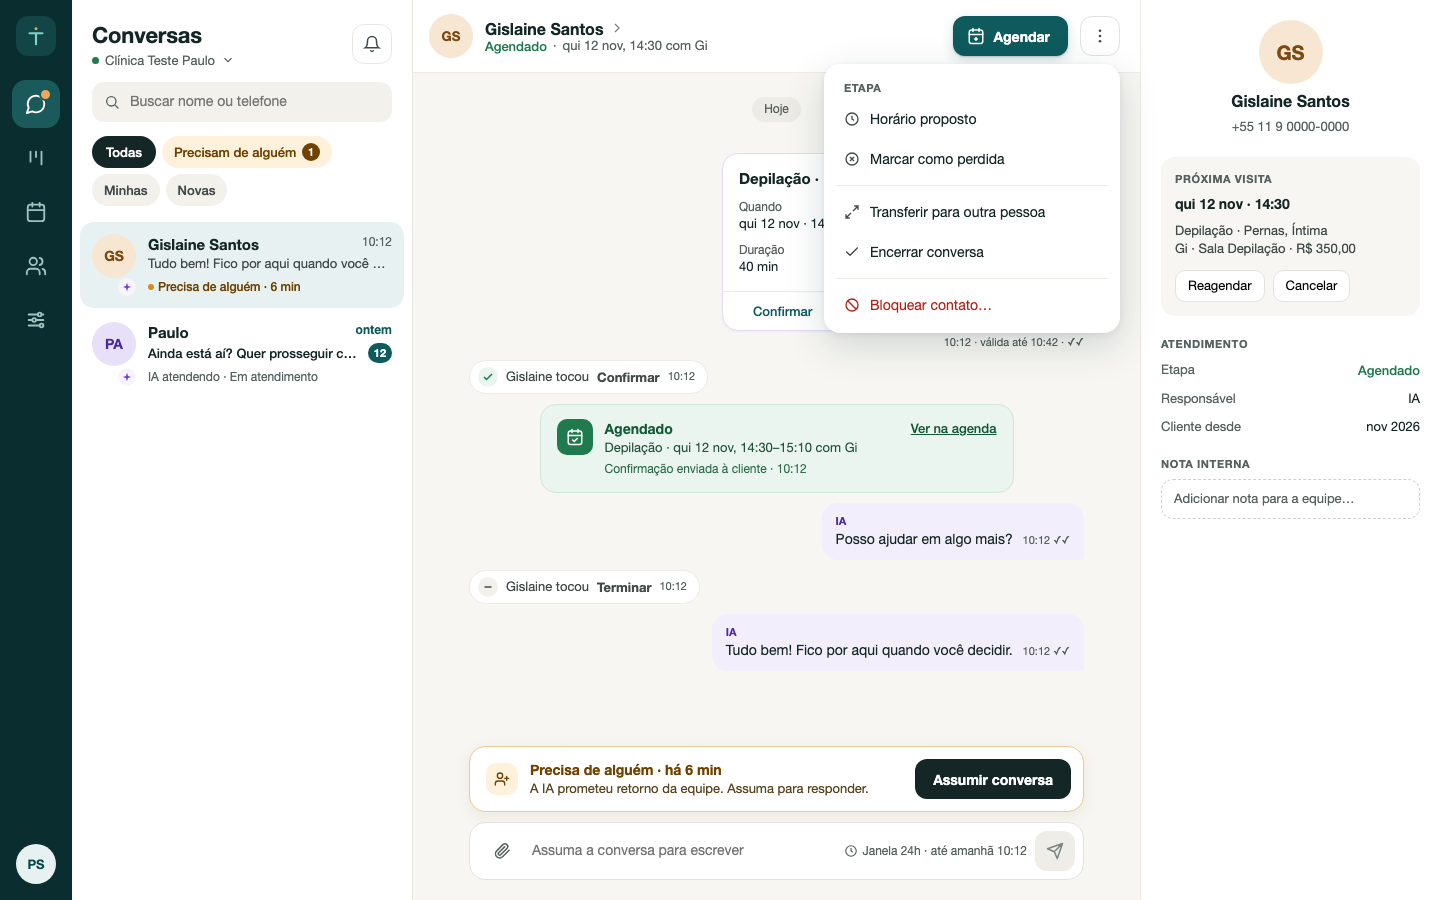
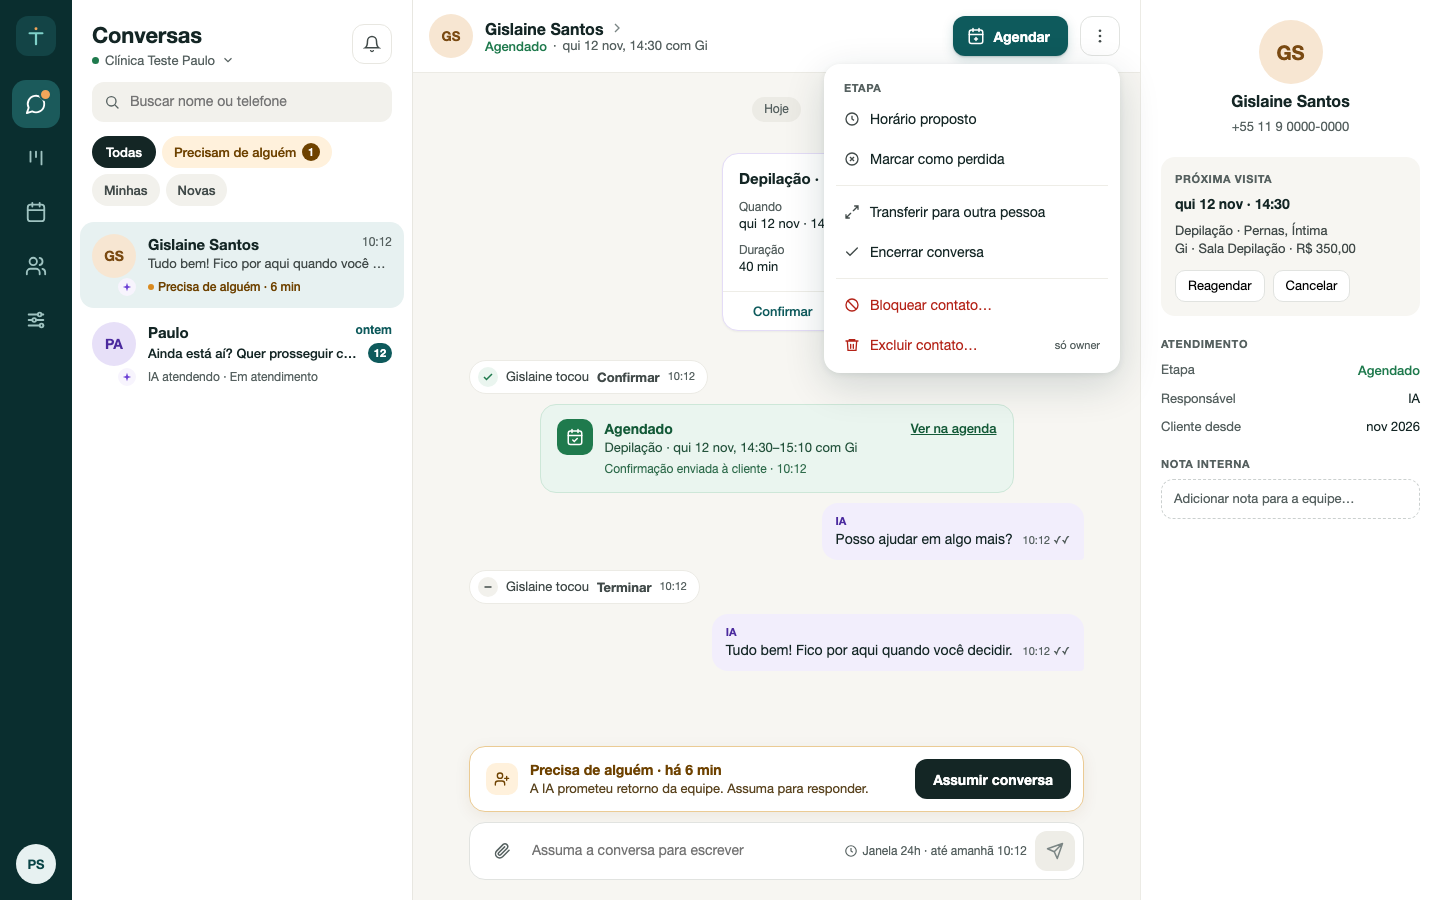
docs(design): manter Excluir contato no ⋮ da conversa focada (TR-488)
A proposta tirava «Excluir contato» do ⋮; Paulo pediu-o de volta.
Bloquear e Excluir (só owner) ficam no fim do menu, como no TR-488, e a
divergência sai do README e de ux-ui.md.

Changed region(s): [[0.5625, 0.3422, 0.7812, 0.4356]]

diff --git a/docs/design/desktop/ConversaFocada.dc.html b/docs/design/desktop/ConversaFocada.dc.html
@@ -143,6 +143,8 @@ button{font-family:inherit}
         <div style="height: 1px; background: #EEEDE7; margin: 6px 4px"></div>
         <button role="menuitem" style="height: 40px; border: 0; background: transparent; text-align: left; padding: 0 12px; border-radius: 10px; font-size: 14px; color: #B42318; display: flex; align-items: center; gap: 10px">
           <svg width="16" height="16" viewBox="0 0 24 24" fill="none" stroke="#B42318" stroke-width="2" aria-hidden="true"><circle cx="12" cy="12" r="9"></circle><path d="m5.7 5.7 12.6 12.6"></path></svg>Bloquear contato…</button>
+        <button role="menuitem" style="height: 40px; border: 0; background: transparent; text-align: left; padding: 0 12px; border-radius: 10px; font-size: 14px; color: #B42318; display: flex; align-items: center; gap: 10px">
+          <svg width="16" height="16" viewBox="0 0 24 24" fill="none" stroke="#B42318" stroke-width="2" stroke-linecap="round" aria-hidden="true"><path d="M3 6h18M8 6V4h8v2M19 6l-1 14H6L5 6M10 11v6M14 11v6"></path></svg>Excluir contato…<span style="margin-left: auto; font-size: 11px; color: #566160">só owner</span></button>
       </div>
     </sc-if>
 

diff --git a/docs/design/desktop/ConversaCabecalhoAntesDepois.dc.html b/docs/design/desktop/ConversaCabecalhoAntesDepois.dc.html
@@ -52,7 +52,7 @@ button{font-family:inherit}
     </div>
     <div style="background: #FFFFFF; border-radius: 14px; border: 1px solid #E1E3E0; padding: 16px; display: flex; flex-direction: column; gap: 8px">
       <div style="font-weight: 600">⋮ agrupado</div>
-      <div style="font-size: 13px; color: #424B4A">Etapa: Horário proposto, Perdida<br>Equipe: Transferir, Encerrar<br>Risco: Bloquear… (Excluir só na ficha, owner)</div>
+      <div style="font-size: 13px; color: #424B4A">Etapa: Horário proposto, Perdida<br>Equipe: Transferir, Encerrar<br>Risco: Bloquear…, Excluir… (só owner, TR-488)</div>
     </div>
     <div style="background: #FFFFFF; border-radius: 14px; border: 1px solid #E1E3E0; padding: 16px; display: flex; flex-direction: column; gap: 8px">
       <div style="font-weight: 600">Agendar inteligente</div>

diff --git a/docs/product/ux-ui.md b/docs/product/ux-ui.md
@@ -103,7 +103,7 @@ No celular, três telas encadeadas: lista (M-01) → conversa (M-02) → detalhe
 - Mensagem recebida cujo processamento falhou aparece como “Mensagem não processada — a equipe técnica foi avisada” somente se houver registro do evento; conteúdo não persistido não é exibido como íntegro (states.md).
 - Compositor: campo de texto multilinha, botão **Enviar** (Ctrl/⌘ + Enter), botão **Sugerir resposta** (IA). Envio de anexo pela equipe: **Em aberto** (DEC-011).
 - **Conversa ao estilo WhatsApp Web (Confirmado, Paulo 01/11/2026, «Sim, implementa»; mocks `desktop/ConversaWhatsappWeb`, `ConversaCompositor`, `ConversaBolhas`):** fundo bege com textura de traço própria (não o papel de parede do WhatsApp), versão escura no tema escuro; bolhas sem borda, raio 7,5 px, sombra fina, cauda só na primeira de cada grupo (mesmo lado, mesmo autor, mesmo dia); hora e vistos em linha no fim do texto; o texto «Lida», «Entregue» etc. fica só para leitor de tela (falha e «a conferir» continuam visíveis); enviadas em teal claro `#D9F2EE`, vistos de lida em azul `#2A7FBF`; o remetente aparece no início de cada grupo enviado («Assistente IA» para a IA). Datas, «N mensagens não lidas» e eventos de sistema viram chips centrais. No desktop (≥ 768 px) a conversa ocupa a coluna inteira com margem lateral de 7 % e bolhas até 65 %; no celular, até 82 %. O compositor é uma barra flutuante única: campo, **Sugerir resposta** (ícone roxo, só quando a cliente espera resposta e a IA não está a escrever) e **Enviar** (desativado com o campo vazio). O prazo da janela de 24 h e o estado da IA são pílulas acima da barra; a do prazo fica amarela com menos de 1 h. **Fora deste recorte:** botão «+» com Agendar no compositor; faixa **Horários livres** acima do compositor (removida — Confirmado Paulo 04/11/2026: «Não quero isto»; redundante com **Agendar** no cabeçalho); «Reservar bloco» saiu do ⋮ (Confirmado Paulo 04/11/2026 Opção A). Agendar no cabeçalho / TEL-05 é o único caminho de marcação da atendente na thread. A linha «Lida por …» sob a mensagem da cliente mantém-se até decisão.
-- **Conversa focada — menos carga cognitiva (Proposto, 11/11/2026; pedido de Paulo após revisão do staging; mocks `desktop/ConversaFocada`, `desktop/ConversaCabecalhoAntesDepois`, `mobile/ConversaFocada` M-65):** o canto superior direito fica com **dois** controles: **Agendar** (único botão com rótulo, primário) e ⋮. O botão **Contato** sai; a ficha abre ao tocar no nome/avatar (como já acontece no celular). Sob o nome, uma linha de estado em texto («Agendado · qui 12 nov, 14:30 com Gi») substitui os chips de etapa e «IA». A faixa «IA está atendendo», o cartão «Comunicação pendente» e a faixa global da conversa aberta fundem-se num só cartão acima do compositor: «Precisa de alguém · há N min» + **Assumir conversa** (DEC-083 sem mudança de regra, só de lugar). O ⋮ agrupa Etapa (Horário proposto, Perdida) · Equipe (Transferir, Encerrar) · Bloquear…. Mensagens do sistema viram cartões (proposta com grade serviço/quando/profissional/preço; «Agendado» verde com «Ver na agenda»); `[Botão] X` vira evento «{nome} tocou X». **Divergências a decidir antes de implementar:** (1) fundo liso em vez da textura Confirmada em 01/11/2026; (2) **Excluir contato** fora do ⋮ (só na ficha), revendo TR-488; (3) painel de contexto em coluna de 300 px em vez do painel deslizante de 380 px (DEC-069); (4) no celular, Agendar no cabeçalho em vez da faixa de contexto (DEC-064); (5) prazo de 24 h dentro da barra em vez de pílula acima; (6) rail escuro e cores novas fora de `tokens.json`. Até decisão, valem as regras Confirmadas acima.
+- **Conversa focada — menos carga cognitiva (Proposto, 11/11/2026; pedido de Paulo após revisão do staging; mocks `desktop/ConversaFocada`, `desktop/ConversaCabecalhoAntesDepois`, `mobile/ConversaFocada` M-65):** o canto superior direito fica com **dois** controles: **Agendar** (único botão com rótulo, primário) e ⋮. O botão **Contato** sai; a ficha abre ao tocar no nome/avatar (como já acontece no celular). Sob o nome, uma linha de estado em texto («Agendado · qui 12 nov, 14:30 com Gi») substitui os chips de etapa e «IA». A faixa «IA está atendendo», o cartão «Comunicação pendente» e a faixa global da conversa aberta fundem-se num só cartão acima do compositor: «Precisa de alguém · há N min» + **Assumir conversa** (DEC-083 sem mudança de regra, só de lugar). O ⋮ agrupa Etapa (Horário proposto, Perdida) · Equipe (Transferir, Encerrar) · zona destrutiva no fim (**Bloquear contato…** e **Excluir contato…** só owner, como no TR-488). Mensagens do sistema viram cartões (proposta com grade serviço/quando/profissional/preço; «Agendado» verde com «Ver na agenda»); `[Botão] X` vira evento «{nome} tocou X». **Divergências a decidir antes de implementar:** (1) fundo liso em vez da textura Confirmada em 01/11/2026; (2) painel de contexto em coluna de 300 px em vez do painel deslizante de 380 px (DEC-069); (3) no celular, Agendar no cabeçalho em vez da faixa de contexto (DEC-064); (4) prazo de 24 h dentro da barra em vez de pílula acima; (5) rail escuro e cores novas fora de `tokens.json`. Até decisão, valem as regras Confirmadas acima.
 - **Horários livres no compositor (Confirmado removido, Paulo 04/11/2026):** a faixa e o ícone saíram da conversa por carga cognitiva e sobreposição com **Agendar**. A regra de 02/11/2026 (bloquear serviço com variantes na faixa) deixa de aplicar — não há faixa. TEL-05 Agendar não muda.
 - **Janela de 24 h (Confirmado, DEC-040):** quando a última mensagem do contato tem mais de 24 h, o campo de texto livre fica bloqueado com o aviso “Fora da janela de 24 h do WhatsApp” e o botão **Escolher modelo** abre a lista de modelos aprovados pela Meta (retomada de contato e confirmação de horário; lembrete é posterior), com prévia e preenchimento de variáveis. O envio de modelo tem os mesmos estados de envio (6.1). A sugestão da IA continua disponível, mas só pode ser enviada dentro da janela ou convertida em modelo. **Confirmado (24/10/2026):** modelos do piloto: retomada de contato e confirmação de horário; lembrete é posterior; a prévia mostra o aviso de custo. **Pendente:** texto final e aprovação na Meta (EP-T04). Desenhado em M-11 (janela fechada) e M-12 (escolha do modelo).
 

diff --git a/docs/design/screens.md b/docs/design/screens.md
@@ -120,7 +120,7 @@ A moldura do desktop (≥ 1280 px), o painel de detalhe deslizante, o seletor de
 | `desktop/ConversaBolhas.dc.html` | TEL-01 bolhas | Especificação: raio, sombra, padding, cauda, espaçamento de grupo, cores (enviada `#D9F2EE`, lida `#2A7FBF`) | **Confirmado** (Paulo 01/11/2026); implementado |
 | `desktop/ConversasControlesMenu.dc.html` | TEL-01 thread · ⋮ | Header Agendar + Contato + menu ⋮ com pipeline + Bloquear/Excluir (owner) após Encerrar; sem Resumo da IA | **Confirmado** (Paulo 31/10/2026 Opção A; TR-488 Paulo 10/11/2026 Bloquear/Excluir no ⋮) |
 | `desktop/ConversasControlesContato.dc.html` | TEL-01 thread · Contato | Sidepane 380 px: dados, Resumo da IA, Acompanhamento, conversas, Bloquear, zona de risco (únicas entradas de Resumo e Bloquear) | **Confirmado** (Paulo 31/10/2026, Opção A); implementado |
-| `desktop/ConversaFocada.dc.html` | TEL-01 thread (interativo: ⋮ e nome) | Conversa focada: rail escuro da marca; cabeçalho com nome tocável + linha de estado, **Agendar** (único botão com rótulo) e ⋮ agrupado (Etapa · Equipe · Bloquear…); estado da IA e alerta de handoff fundidos num cartão **Precisa de alguém** com **Assumir conversa** junto ao compositor; proposta da IA e marcação confirmada como cartões estruturados; toques em botões como eventos; fundo liso; painel de contexto à direita com próxima visita (Reagendar/Cancelar), etapa, responsável e nota interna; filtro «Precisam de alguém» na lista e chips sem contador 0 | **Proposto** (11/11/2026); valores fora de `tokens.json` listados no CHANGELOG |
+| `desktop/ConversaFocada.dc.html` | TEL-01 thread (interativo: ⋮ e nome) | Conversa focada: rail escuro da marca; cabeçalho com nome tocável + linha de estado, **Agendar** (único botão com rótulo) e ⋮ agrupado (Etapa · Equipe · Bloquear… e Excluir… só owner, TR-488); estado da IA e alerta de handoff fundidos num cartão **Precisa de alguém** com **Assumir conversa** junto ao compositor; proposta da IA e marcação confirmada como cartões estruturados; toques em botões como eventos; fundo liso; painel de contexto à direita com próxima visita (Reagendar/Cancelar), etapa, responsável e nota interna; filtro «Precisam de alguém» na lista e chips sem contador 0 | **Proposto** (11/11/2026); valores fora de `tokens.json` listados no CHANGELOG |
 | `desktop/ConversaCabecalhoAntesDepois.dc.html` | TEL-01 cabeçalho | Comparação: hoje 4 zonas de estado + Agendar, Contato e ⋮; proposta com 1 linha de estado e 2 controles; regras do cabeçalho, ⋮ agrupado e atalhos de teclado sugeridos | **Proposto** (11/11/2026) |
 | `desktop/AgendaSemana.dc.html` | TEL-04 semana | Grade de sete dias, horários simultâneos lado a lado, filtro por profissional, fim de semana hachurado e linha «Agora» (**Proposto**) |
 | `desktop/ClientesLista.dc.html` | TEL-12 lista | Rail com item Clientes; lista ~400 px (busca, filtros Todas/Com horário/Bloqueadas); ficha resumida ao lado | **Confirmado** (Opção C, Paulo 31/10/2026); fase 1 implementada |

diff --git a/docs/design/README.md b/docs/design/README.md
@@ -73,7 +73,7 @@ Registradas para que ninguém as copie como se fossem intencionais. Corrija na i
 | M-01 / M-02 (PR-7) | Lista contínua no lugar de cartões; Assumir em faixa, Agendar em ícone e Encerrar no menu ⋮ com confirmação; um só cabeçalho na conversa | **Proposto**; vale até o responsável do produto revisar. Registrado em [components.md](components.md) |
 | M-01 vs M-54 / painel | M-01 ainda mostra lista antiga no canvas | **Confirmado (M-54, Paulo 31/10/2026):** painel usa lista full-bleed + busca sunken; M-01 pode ser regenerado depois |
 | M-40 vs M-55 / painel | M-40 ainda mostra Resumo/Bloquear no ⋮ | **Confirmado (M-55, Paulo 31/10/2026 Opção A; revisão 04/11/2026; TR-488 Paulo 10/11/2026):** sem Reservar bloco; Resumo só no Contato; Agendar só no cabeçalho; Bloquear e Excluir (owner) no ⋮ / folha após Encerrar, com o mesmo diálogo de confirmação; Contato mantém as entradas |
-| M-65 / `desktop/ConversaFocada` | Proposta de 11/11/2026 diverge de textura de fundo (01/11), TR-488 (Excluir no ⋮), DEC-069 (painel 380 px deslizante) e DEC-064 (Agendar na faixa no celular); o mock desktop usa cores fora de `tokens.json` | **Proposto**; implementar só após revisão do responsável do produto. Até lá valem M-55, `ConversaWhatsappWeb` e `ConversasControlesMenu` |
+| M-65 / `desktop/ConversaFocada` | Proposta de 11/11/2026 diverge de textura de fundo (01/11), DEC-069 (painel 380 px deslizante) e DEC-064 (Agendar na faixa no celular); o mock desktop usa cores fora de `tokens.json` | **Proposto**; implementar só após revisão do responsável do produto. Até lá valem M-55, `ConversaWhatsappWeb` e `ConversasControlesMenu` |
 | Hora e data | Fixas (sexta, 30 de outubro) | Sempre no fuso da clínica (DEC-008), nunca em UTC |
 
 ## Manutenção

diff --git a/docs/design/CHANGELOG.md b/docs/design/CHANGELOG.md
@@ -5,6 +5,7 @@
 - Revisão do staging pedida por Paulo («reduzir carga cognitiva», «muitos botões no canto superior direito», Agendar continua prioritário). Novos mocks `desktop/ConversaFocada` (interativo: ⋮ e nome), `desktop/ConversaCabecalhoAntesDepois` e `mobile/ConversaFocada` (M-65). Canvas de trabalho privado: «Tredane — Conversas redesign».
 - Proposta: cabeçalho com 2 controles (Agendar, ⋮), Contato pelo nome; 1 linha de estado; um único cartão «Precisa de alguém» com Assumir acima do compositor; mensagens do sistema como cartões; toques em botões como eventos; painel de contexto com próxima visita; fundo liso.
 - O mock mobile usa só tokens (`check_mocks.py` passa). O desktop usa valores **fora** de `tokens.json`, a converter em tokens se a proposta for aceite: rail `#0A2E2F` / `#134446` / `#1B5A5B` / `#9FC3C1`, avatar quente `#F7E6D2` / `#7A4A12`, IA `#F2EEFC` / `#E4DCF7`, aviso `#FFF1DC` / `#D98A1F` / `#5B4520`, sucesso `#CDE7D8` / `#145A38` / `#24533C`, superfícies `#F7F6F2` / `#F2F1EC` / `#ECEBE5` / `#E8E7E1`; raios 10 e 14 px; fonte 12 e 15 px.
+- ⋮ mantém **Bloquear contato** e **Excluir contato** (só owner) no fim, conforme TR-488 (correção pedida por Paulo no mesmo dia).
 - Divergências com decisões Confirmadas registadas no README e em `ux-ui.md`; nada implementado.
 
 ## 09/11/2026 — Novo serviço: teclado não cobre Nome (**Confirmado**)
